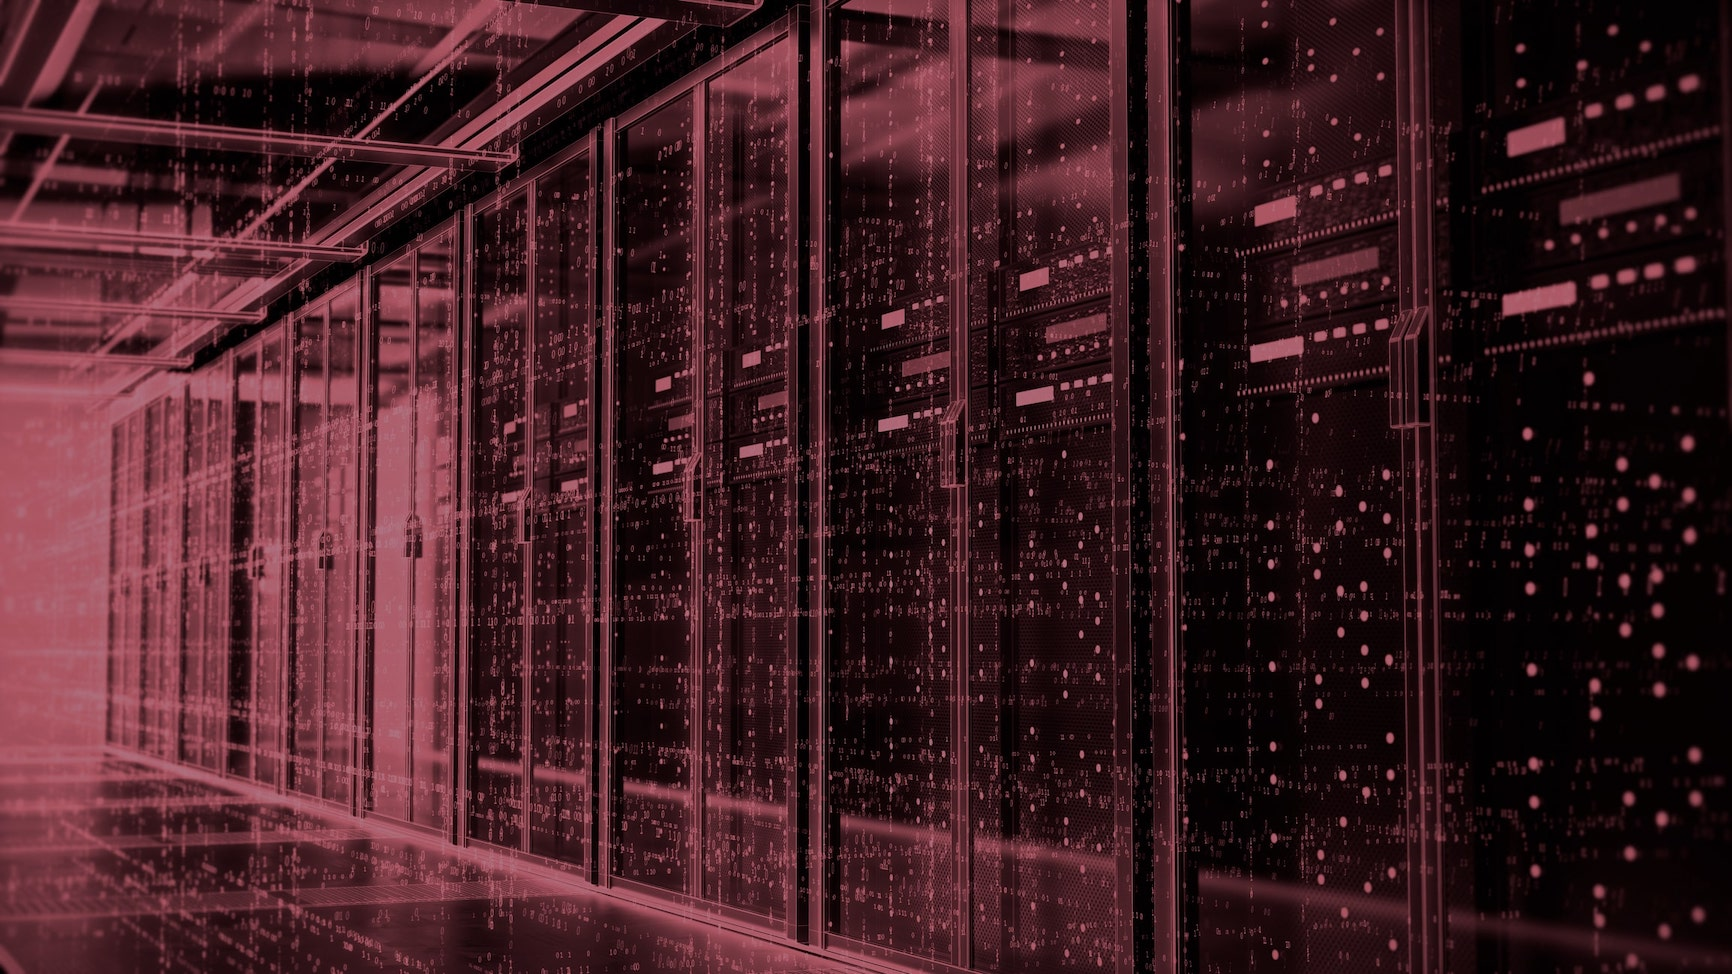
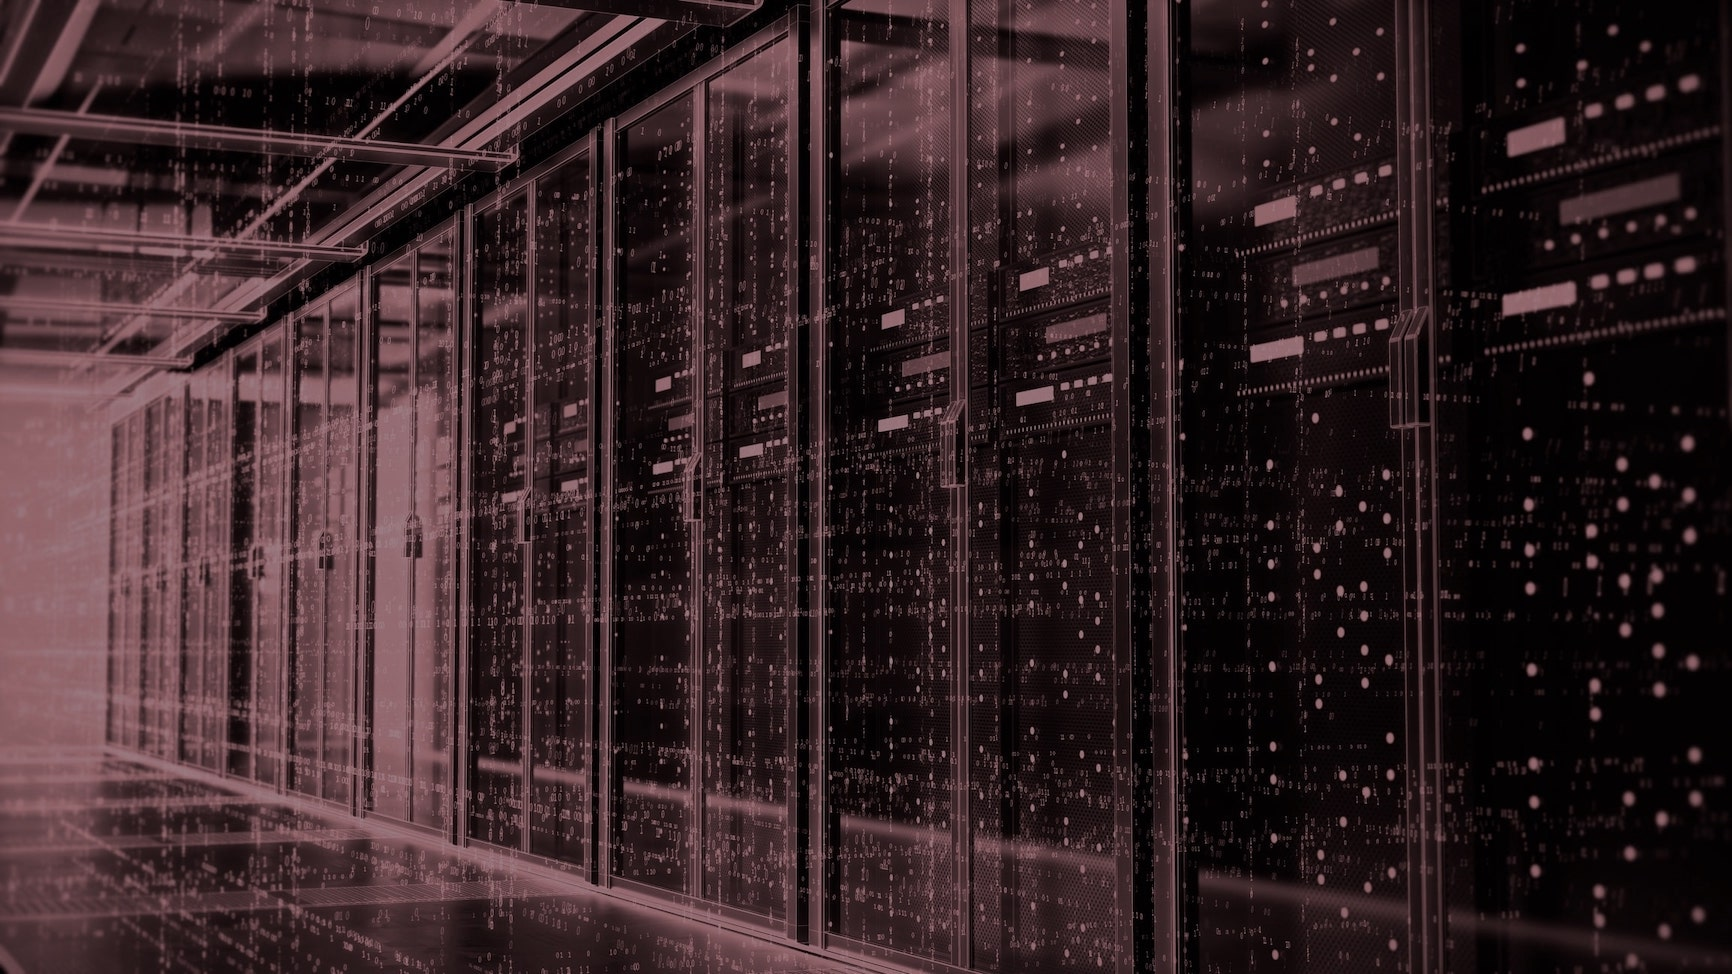
changing product idea

diff --git a/pages/index.js b/pages/index.js
@@ -33,35 +33,47 @@ export default function Home( props ) {
       <Navbar></Navbar>
       <div className="bg-image">
         <div className="bg-gradient">
+          <div className="bg-gradient-outer">
+            <div className="main-text">
+              <br></br>
+              <h1>Fool, learn, and conquer</h1>
+              <h3>Trustless identity<br></br> for small businesses</h3>
+              <br></br>
+              <a href="#prices"><button type="button" className="button btn-danger"><h3>Get SafeHouse</h3></button></a>
+              <br></br><br></br>
+              <a href="/"><button type="button" className="button btn-dark"><h3>Read Our Blog</h3></button></a>
+              <br></br>
+            </div>
+          </div>
+        </div>
+      </div>
+      <div className="bg-image-five">
+        <div className="bg-gradient-three">
           <div className="main-text">
-            <h1>Fool, learn, and conquer</h1>
-            <h3>Smart honeypots for<br></br> small enterprises</h3>
-            <br></br>
-            <a href="#prices"><button type="button" className="button btn-danger"><h3>Get SafeHouse</h3></button></a>
-            <br></br><br></br>
-            <a href="/about"><button type="button" className="button btn-dark"><h3>Learn More</h3></button></a>
+            <h1>Compromised credentials are the leading cause of hacks.</h1>
+            <h1>The solution? Ditch the password and embrace decentralized identity.</h1>
           </div>
         </div>
       </div>
       <div className="about-text-container">
         <div className="about-text" style={{top: "40px", position: "relative"}}>
-          <h1>Configurable</h1>
+          <h1>Granular</h1>
           <br></br>
-          <h3>Designed to suit multiple use cases</h3>
+          <h3>Specify authentication conditions</h3>
           <br></br>
           <img src="honeycomb.png" width="200px"></img>
         </div>
         <div className="about-text" style={{top: "40px", position: "relative"}}>
-          <h1>Sophisticated</h1>
+          <h1>Decentralized</h1>
           <br></br>
-          <h3>Constantly changes to fool hackers</h3>
+          <h3>Confirms identity through concensus</h3>
           <br></br>
           <img src="data.png" width="200px"></img>
         </div>
         <div className="about-text" style={{top: "40px", position: "relative"}}>
-          <h1>Safe</h1>
+          <h1>Secure</h1>
           <br></br>
-          <h3>Isolated, convinving and manageable</h3>
+          <h3>Authentication impossible to bypass</h3>
           <br></br>
           <img src="safe.png" width="200px"></img>
         </div>
@@ -71,7 +83,7 @@ export default function Home( props ) {
           <h1>Disclaimer</h1>
           <br></br>
           <h3>This is a placeholder site for a product in development.
-            <br></br>There is nothing to purchase nor demo.
+            <br></br>There is no pricing 
             <br></br>In the meantime, check out our blog!
           </h3>
         </div>
@@ -99,11 +111,8 @@ export default function Home( props ) {
         <div className="bg-gradient-three">
           <a name="prices"></a>
           <div className="main-text">
-            <h1>Disclaimer</h1>
-            <br></br>
-            <h3>There is nothing yet to purchase on this website. 
-              <br></br>The prices listed below are subject to change.
-            </h3>
+            <h1>There is nothing to purchase right now.</h1><br></br>
+            <h3>Pricing information is not available at this time.</h3>
           </div>
         </div>
       </div>
@@ -122,7 +131,6 @@ export default function Home( props ) {
             <li style={{color:"rgb(200,200,200)"}}>&#9587; Feature 5</li>
             <li style={{color:"rgb(200,200,200)"}}>&#9587; Feature 6</li>
           </ul> 
-          <button type="button" className="button btn-dark"><h3>Purchase Now!</h3></button>
         </div>
         <br></br>
         <div className="product-choice">
@@ -139,15 +147,14 @@ export default function Home( props ) {
             <li>&#10003; Feature 5</li>
             <li>&#10003; Feature 6</li>
           </ul> 
-          <button type="button" className="button btn-dark"><h3>Purchase Now!</h3></button>
         </div>
       </div>
       <div className="bottom-text">
         <div style={{width:"100%", height: "3px", background: "gray"}}></div>
         <br></br>
-        <h1>Get the world's most advanced commercial honeypot</h1>
+        <h1>Get the world's most advanced decentralized identity solution</h1>
         <br></br>
-        <a href="/about"><button type="button" className="button btn-danger"><h3>Learn More</h3></button></a>
+        <a href="#prices"><button type="button" className="button btn-danger"><h3>Get SafeHouse</h3></button></a>
         <br></br><br></br>
         <a href="/"><button type="button" className="button btn-dark"><h3>Read Our Blog</h3></button></a>
         <br></br><br></br><br></br>

diff --git a/styles/globals.css b/styles/globals.css
@@ -70,9 +70,48 @@ ul {
 
 .bg-image {
   color: white;
-  background-image: url("../public/servers.jpg");
+  background-image: url("../public/network.gif");
   background-size: cover;
   height: 500px;
+  animation-name: fadein;
+  animation-duration: 0.5s;
+}
+
+.bg-image-two {
+  color: white;
+  background-image: url("../public/man-at-computer.jpg");
+  background-size: cover;
+  height: 500px;
+  animation-name: fadein;
+  animation-duration: 0.5s;
+  background-position: center;
+}
+
+.bg-image-three {
+  color: white;
+  background-image: url("../public/hoboken.jpeg");
+  background-size: cover;
+  height: 500px;
+  animation-name: fadein;
+  animation-duration: 0.5s;
+  background-position: center;
+}
+
+.bg-image-four {
+  color: white;
+  background-image: url("../public/code.jpg");
+  background-size: cover;
+  height: 1000px;
+  animation-name: fadein;
+  animation-duration: 0.5s;
+  background-position: center;
+}
+
+.bg-image-five {
+  color: white;
+  background-image: url("../public/servers.jpg");
+  background-size: cover;
+  height: 450px;
   animation-name: fadein;
   animation-duration: 0.5s;
 }
@@ -83,6 +122,38 @@ ul {
   width: 100%;
   background: rgb(0,0,0);
   background: radial-gradient(circle, rgba(0,0,0,0) 0%, rgba(0,0,0,0.5) 75%, rgba(30,30,30,1) 100%);
+}
+
+.bg-gradient-outer {
+  position: relative;
+  height: 100%;
+  width: 100%;
+  background: rgb(0,0,0);
+  background: rgba(225,75,75,0.7)
+}
+
+.bg-gradient-two {
+  position: relative;
+  height: 100%;
+  width: 100%;
+  background: rgb(0,0,0);
+  background: radial-gradient(circle, rgba(225,75,75,0) 0%, rgba(225,75,75,0.5) 47%, rgba(225,75,75,1) 100%);
+}
+
+.bg-gradient-three {
+  position: relative;
+  height: 100%;
+  width: 100%;
+  background: rgb(0,0,0);
+  background: radial-gradient(circle, rgba(0,0,0,0) 0%, rgba(0,0,0,0.5) 70%, rgba(30,30,30,1) 100%);
+}
+
+.bg-gradient-four {
+  position: relative;
+  height: 100%;
+  width: 100%;
+  background: rgb(30,30,30);
+  background: linear-gradient(0deg, rgba(30,30,30,1) 0%, rgba(6,6,6,1) 6%, rgba(0,0,0,0) 100%);
 }
 
 .main-text {
@@ -127,9 +198,6 @@ ul {
   }
   .about-text {
     width: 27%;
-  }
-  .about-text-2 {
-    width: 50%;
   }
   .blog-post {
     width: 30%;
@@ -189,15 +257,6 @@ ul {
   text-align: center;
 }
 
-.about-text-2 {
-  color: white;
-  position: relative;
-  margin-top: 0;
-  margin-left: auto;
-  margin-right: auto;
-  text-align: center;
-}
-
 .bottom-text {
   color: white;
   position: relative;
@@ -207,65 +266,11 @@ ul {
   top: 75px;
 }
 
-.bg-image-two {
-  color: white;
-  background-image: url("../public/man-at-computer.jpg");
-  background-size: cover;
-  height: 500px;
-  animation-name: fadein;
-  animation-duration: 0.5s;
-  background-position: center;
-}
-
-.bg-image-three {
-  color: white;
-  background-image: url("../public/hoboken.jpeg");
-  background-size: cover;
-  height: 500px;
-  animation-name: fadein;
-  animation-duration: 0.5s;
-  background-position: center;
-}
-
-.bg-image-four {
-  color: white;
-  background-image: url("../public/code.jpg");
-  background-size: cover;
-  height: 1000px;
-  animation-name: fadein;
-  animation-duration: 0.5s;
-  background-position: center;
-}
-
-.bg-gradient-two {
-  position: relative;
-  height: 100%;
-  width: 100%;
-  background: rgb(0,0,0);
-  background: radial-gradient(circle, rgba(225,75,75,0) 0%, rgba(225,75,75,0.5) 47%, rgba(225,75,75,1) 100%);
-}
-
-.bg-gradient-three {
-  position: relative;
-  height: 100%;
-  width: 100%;
-  background: rgb(0,0,0);
-  background: radial-gradient(circle, rgba(0,0,0,0) 0%, rgba(0,0,0,0.5) 70%, rgba(30,30,30,1) 100%);
-}
-
-.bg-gradient-four {
-  position: relative;
-  height: 100%;
-  width: 100%;
-  background: rgb(30,30,30);
-  background: linear-gradient(0deg, rgba(30,30,30,1) 0%, rgba(6,6,6,1) 6%, rgba(0,0,0,0) 100%);
-}
-
 .product-choice {
   margin: auto;
   text-align: center;
   position: relative;
-  background: rgb(225,75,75);
+  background: rgb(100,75,75);
   padding: 15px;
   border-radius: 20px;
 }

diff --git a/pages/about.js b/pages/about.js
@@ -5,6 +5,10 @@ export default function Home() {
 
   return (
     <div>
+      <p>Under construction</p>
+    </div>
+  /*
+    <div>
       <Head>
         <title>SafeHouse - Home</title>
         <meta charSet="utf-8"></meta>
@@ -204,6 +208,7 @@ export default function Home() {
         </div>
       </div>
     </div>
+  */
   )
 }
   
